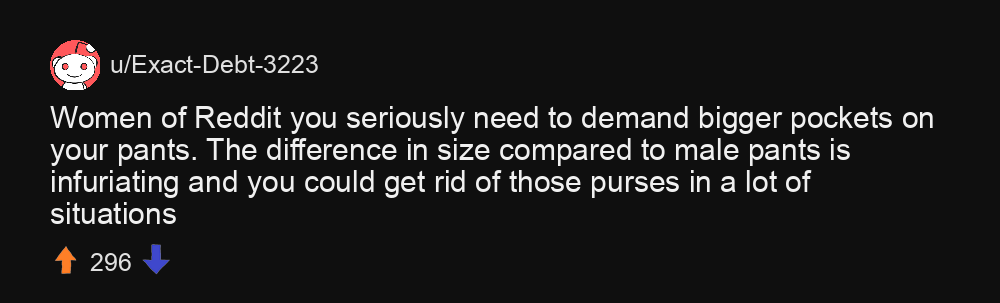
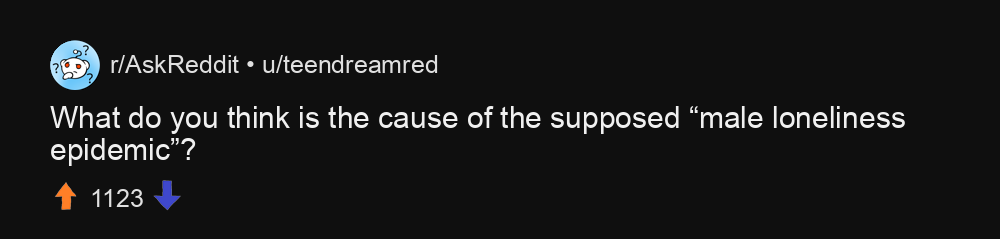
more templates yay

Changed region(s): [[0.031, 0.1172, 0.93, 0.9079]]

diff --git a/textpost.py b/textpost.py
@@ -1,16 +1,16 @@
 from template import Template
-from PIL import Image, ImageDraw
-from redditscraper import RedditComment
+from redditscraper import RedditPost
 import random
+from PIL import Image, ImageDraw
 import os
 
-class CommentTemplate(Template):
-    def __init__(self, comment:RedditComment):
-        self.comment = comment
+class TextPostTemplate(Template):
+    def __init__(self, post:RedditPost):
+        self.post = post
 
     def draw(self) -> Image.Image:
-        text_wrapped, lines = Template._wrap_text(self.comment.body, 65)
-        upvote_format = Template._format_num(self.comment.ups)
+        text_wrapped, lines = Template._wrap_text(self.post.title, 65)
+        upvote_format = Template._format_num(self.post.ups)
 
         width = 1000
         height = 100+lines*32+75
@@ -18,10 +18,12 @@ class CommentTemplate(Template):
         img = Image.new('RGBA', (width, height), Template.BACKGROUND_COLOR)
         draw = ImageDraw.Draw(img)
 
-        profile_pic, mask = self._mask_profile_picture(Image.open("img_assets/profile_pic/"+random.choice(os.listdir("img_assets/profile_pic/"))))
+        profile_pic, mask = self._mask_profile_picture(self.post.get_subreddit_icon())
         img.paste(profile_pic, (50,40), mask)
 
-        draw.text((110,50), "u/"+self.comment.author, font=Template.USER_FONT, fill=(0xE0,0xE0,0xE0,0xFF))
+        top_text = "r/"+self.post.subreddit+" • u/"+self.post.author
+
+        draw.text((110,50), top_text, font=Template.USER_FONT, fill=(0xE0,0xE0,0xE0,0xFF))
         draw.text((50,100), text_wrapped, font=Template.BODY_FONT, fill=(0xF0,0xF0,0xF0,0xFF))
 
         draw.text((90,height-55), upvote_format, font=Template.UPVOTE_FONT, fill=(0xE0,0xE0,0xE0,0xFF))
@@ -35,14 +37,13 @@ class CommentTemplate(Template):
         img.paste(downvote, (107+(11*len(upvote_format)),height-60), down_mask)
 
         return img
-
+    
 
 if __name__ == "__main__":
     from redditscraper import RedditScraper
     scraper = RedditScraper()
     posts = random.choice(scraper.get_posts("askreddit"))
-    posts.get_comments()
 
-    a = CommentTemplate(random.choice(posts.comments))
+    a = TextPostTemplate(posts)
     img = a.draw()
     img.save("test.png")

diff --git a/redditscraper/scraper.py b/redditscraper/scraper.py
@@ -2,6 +2,7 @@ from .jsonhandler import URLJsonHandler
 from .post import RedditPost
 from typing import Any
 from .postlist import PostList
+from .subreddit import Subreddit
 
 default_options = {
     "headers": {
@@ -27,9 +28,15 @@ class RedditScraper:
 
         return str_
 
-    def _get_json(self, subreddit:str, **kwargs) -> list[RedditPost]:
+    def _get_json(self, subreddit:str, **kwargs) -> dict[str,Any]:
         return self.jsonhandler.get_json(f"https://www.reddit.com/r/{subreddit}.json{RedditScraper._kwargs_to_str(**kwargs)}")
     
+    def _get_info_json(self, subreddit) -> dict[str,Any]:
+        return self.jsonhandler.get_json(f"https://www.reddit.com/r/{subreddit}/about.json")
+
     def get_posts(self, subreddit:str, **kwargs) -> PostList:
         json = self._get_json(subreddit, **kwargs)
         return PostList.json_list_to_postlist(json["data"]["children"])
+    
+    def get_info(self, subreddit:str) -> Subreddit:
+        return Subreddit(self._get_info_json(subreddit))

diff --git a/redditscraper/post.py b/redditscraper/post.py
@@ -2,6 +2,7 @@ from typing import Union, Any
 from .jsonhandler import URLJsonHandler
 from . import kinds
 from .comment import RedditComment
+from .url_to_img import url_to_img
 import re
 
 class RedditPost:
@@ -35,7 +36,7 @@ Author: u/{self.author}
 
     def get_comments(self) -> None:
         """Loads comments into the ```RedditPost``` structure."""
-        handler = URLJsonHandler() # TODO FIXME headers (fix defaults in jsonhandler.py)
+        handler = URLJsonHandler()
         json = handler.get_json(self.url[:-1] + ".json") # chop off trailing slash and add .json
 
         if len(json) < 2: raise Exception 
@@ -50,3 +51,7 @@ Author: u/{self.author}
     def get_comments_recursive(self) -> None:
         """This is a bad idea"""
         pass
+
+    def get_subreddit_icon(self):
+        a = URLJsonHandler().get_json(f"https://www.reddit.com/r/{self.subreddit}/about.json")
+        return url_to_img(a["data"]["icon_img"])

diff --git a/template.py b/template.py
@@ -6,17 +6,22 @@ class Template:
     BODY_FONT = ImageFont.truetype("img_assets/Arial.ttf", 30)
     UPVOTE_FONT = ImageFont.truetype("img_assets/Arial.ttf", 25)
 
+    BACKGROUND_COLOR = (0x0F,0x0F,0x0F)
+
     def __init__(self):
         ...
 
-    def _wrap_text(self, text, width) -> tuple[str,int]:
+    @staticmethod
+    def _wrap_text(text, width) -> tuple[str,int]:
         e = textwrap.wrap(text, width)
         return ("\n".join(e), len(e))
 
-    def _format_num(self, input_:int) -> str:
+    @staticmethod
+    def _format_num(input_:int) -> str:
         return str(input_)
 
-    def _mask_profile_picture(self, image:Image.Image, size:tuple[int,int]=(50,50)) -> Image.Image:
+    @staticmethod
+    def _mask_profile_picture(image:Image.Image, size:tuple[int,int]=(50,50)) -> Image.Image:
         size = (50, 50)
         mask = Image.new('L', size, 0)
         draw = ImageDraw.Draw(mask) 

diff --git a/redditscraper/subreddit.py b/redditscraper/subreddit.py
@@ -1,0 +1,13 @@
+from typing import Any
+from PIL import Image
+from .url_to_img import url_to_img
+
+class Subreddit:
+    def __init__(self, data:dict[str,Any]):
+        self.data = data["data"]
+
+    def __getattr__(self, index: str) -> Any:
+        return self.data[index]
+
+    def get_thumbnail(self) -> Image.Image:
+        return url_to_img(self["icon_img"])

diff --git a/redditscraper/url_to_img.py b/redditscraper/url_to_img.py
@@ -1,0 +1,8 @@
+from PIL import Image
+import requests
+from io import BytesIO
+
+# https://stackoverflow.com/questions/7391945/how-do-i-read-image-data-from-a-url-in-python
+def url_to_img(url:str) -> Image.Image:
+    resp = requests.get(url)
+    return Image.open(BytesIO(resp.content)).convert("RGB")
